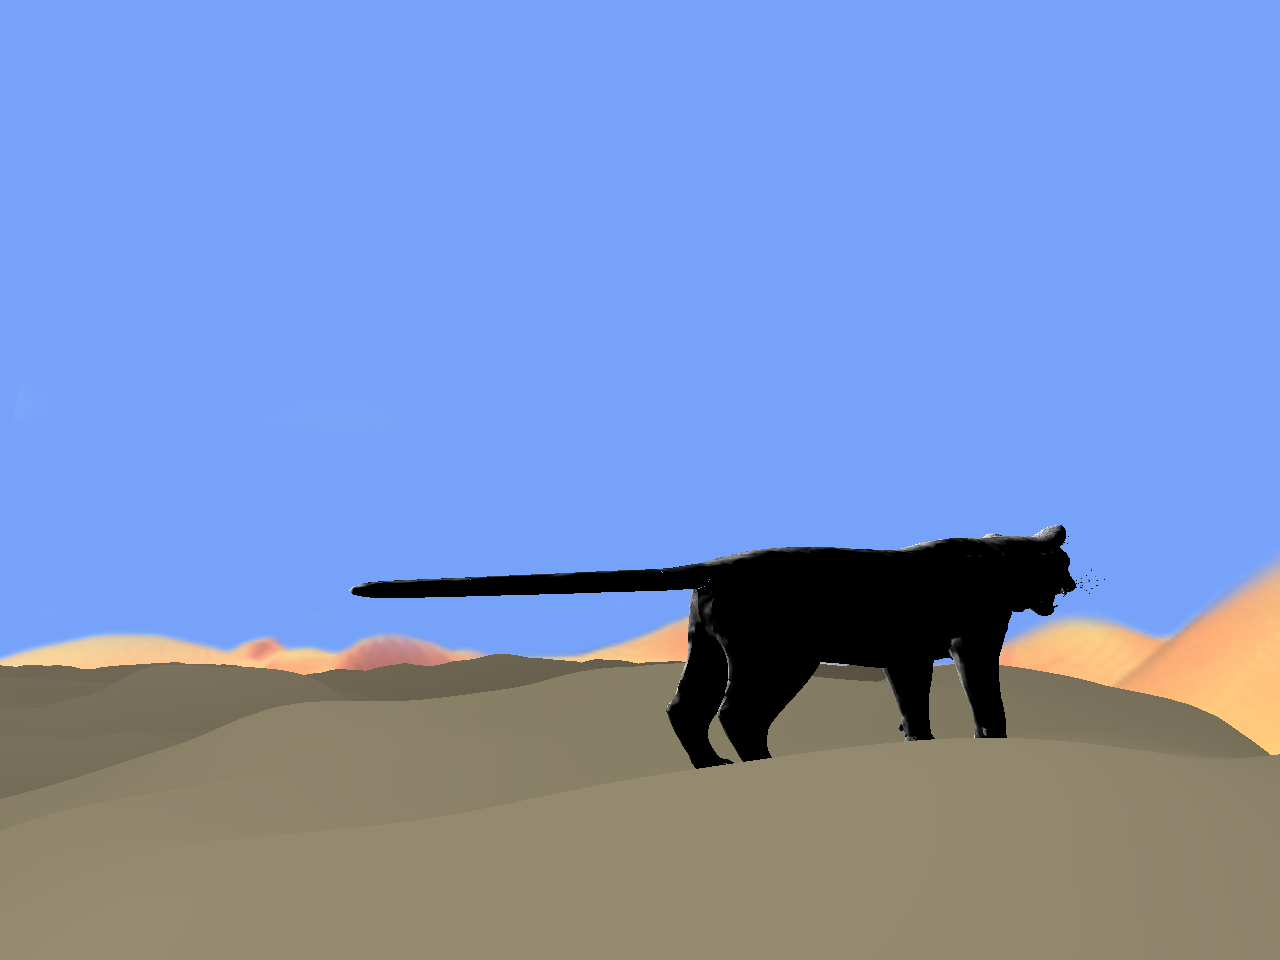
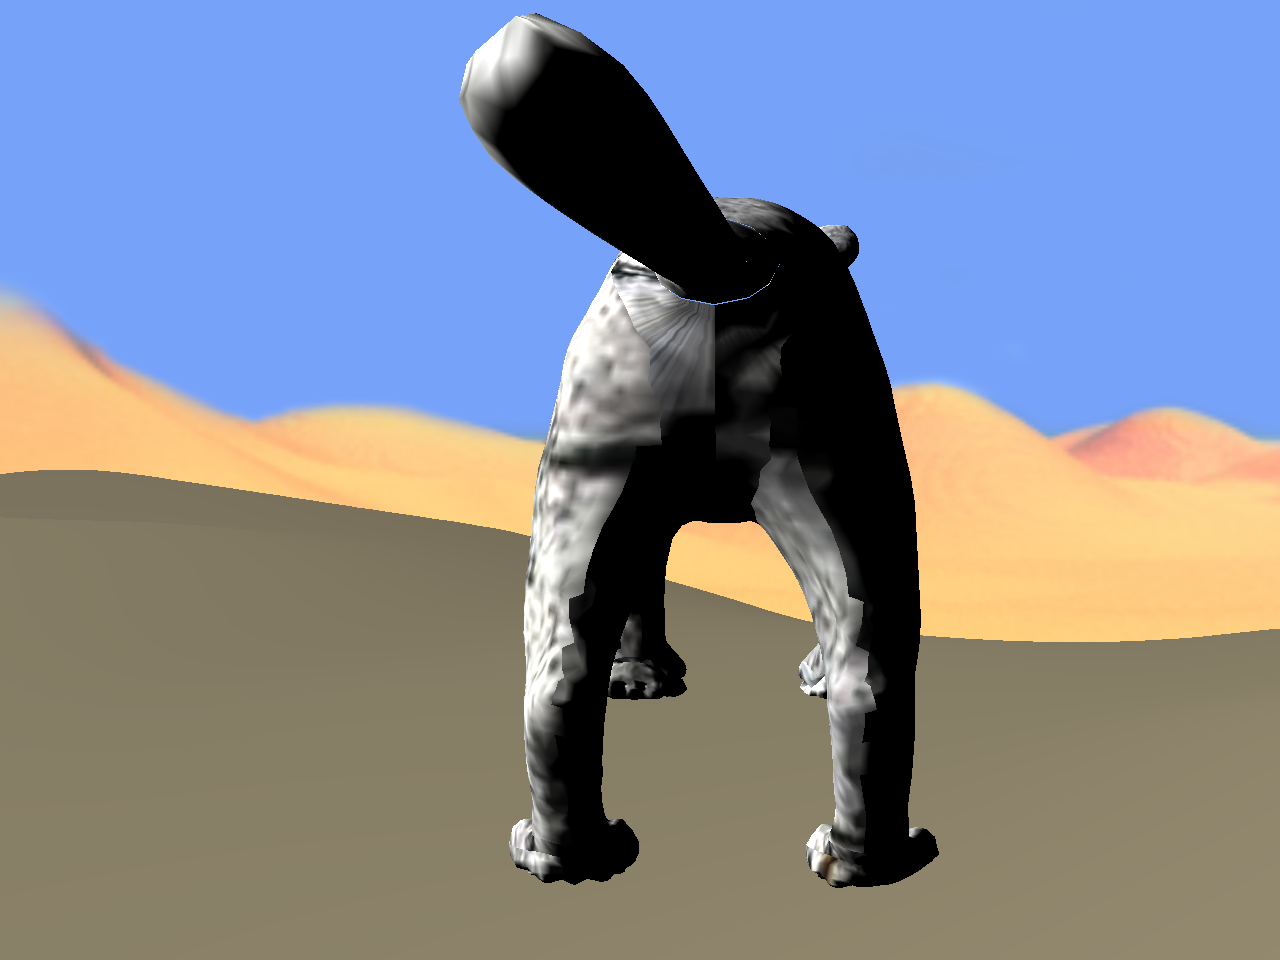
Added function to move camera in required direction

diff --git a/Main.C b/Main.C
@@ -73,6 +73,7 @@ void drawScene()
 void writeToCubeMapBuffer()
 {
 	screenShot->bind();
+	FOVY = 90.0f;
 	
 	glClear(GL_COLOR_BUFFER_BIT | GL_DEPTH_BUFFER_BIT);
 	
@@ -81,6 +82,8 @@ void writeToCubeMapBuffer()
 	drawScene();
 
 	screenShot->unbind();
+	
+	FOVY = 45.0f;
 	
 	updateView();
 }
@@ -95,7 +98,7 @@ void keyboardUp(unsigned char key, int x, int y)
 void keyboard(unsigned char key, int x, int y)
 {
 	//int size;
-	
+	vec3 yAxis (0, 1, 0);
 	active_keys[key] = true;
 	
     switch (key)
@@ -253,6 +256,72 @@ void keyboard(unsigned char key, int x, int y)
 		}
 		
 	break;
+		
+	case '1':
+		//POSITIVE Y
+		cameraAt.x = 10000.0f;
+		//cameraAt.y = 0.0f;
+		cameraAt.y = cameraEye.y;
+		//cameraAt.z = 0.0f;
+		cameraAt.z = cameraEye.z;
+	
+		lookDirection(0.0f,89.5f);
+	break;
+	
+	case '2':
+		//NEGATIVE Y
+		cameraAt.x = 10000.0f;
+		//cameraAt.y = 0.0f;
+		cameraAt.y = cameraEye.y;
+		//cameraAt.z = 0.0f;
+		cameraAt.z = cameraEye.z;
+	
+		lookDirection(0.0f,-89.50f);
+	break;
+	
+	case '3':
+		//POSITIVE X
+		cameraAt.x = 10000.0f;
+		//cameraAt.y = 0.0f;
+		cameraAt.y = cameraEye.y;
+		//cameraAt.z = 0.0f;
+		cameraAt.z = cameraEye.z;
+	
+		lookDirection(0.0f,0.0f);
+	break;
+	
+	case '4':
+		//NEGATIVE X
+		cameraAt.x = -10000.0f;
+		//cameraAt.y = 0.0f;
+		cameraAt.y = cameraEye.y;
+		//cameraAt.z = 0.0f;
+		cameraAt.z = cameraEye.z;
+	
+		lookDirection(0.0f,0.0f);
+	break;
+	
+	case '5':
+		//POSITIVE Z
+		cameraAt.x = 10000.0f;
+		//cameraAt.y = 0.0f;
+		cameraAt.y = cameraEye.y;
+		//cameraAt.z = 0.0f;
+		cameraAt.z = cameraEye.z;
+	
+		lookDirection(-90.0f,0.0f);
+	break;
+	
+	case '6':
+		//NEGATIVE Z
+		cameraAt.x = 10000.0f;
+		//cameraAt.y = 0.0f;
+		cameraAt.y = cameraEye.y;
+		//cameraAt.z = 0.0f;
+		cameraAt.z = cameraEye.z;
+	
+		lookDirection(90.0f,0.0f);
+	break;
 	       
 	case 'c':
 		xScale = yScale = zScale = 1.0f;
@@ -346,6 +415,22 @@ void mouse(int button, int state, int x, int y)
 	cout << "at [" << x << ", " << y << "] " << endl;
 }
 
+void lookDirection(GLfloat hRotation, GLfloat vRotation)
+{
+	vec3 direction = (cameraAt - cameraEye);
+	vec3 right = glm::cross(direction, cameraUp);
+	
+	mat4 rotation; //create empty 4x4 rotation matrix
+	rotation = glm::rotate (rotation, hRotation, cameraUp);
+	rotation = glm::rotate (rotation, vRotation, right);
+	
+	glm::vec4 d (direction.x, direction.y, direction.z, 0.0f);//create a vec4 direction vector so that we can rotate it
+	
+	d = rotation * d;
+	
+	cameraAt = cameraEye + vec3(d.x, d.y, d.z);
+}
+
 void mouseLook (int x, int y)
 {
 	int horizontal_centre = WINDOW_WIDTH / 2;
@@ -415,6 +500,15 @@ void reshape(int newWidth, int newHeight)
 void updateView()
 {
 	mat4 worldView = lookAt(cameraEye, cameraAt, cameraUp);
+	
+	vec3 xAxis(1,0,0);
+	worldView = rotate(worldView, xRot,xAxis);
+	
+	vec3 yAxis(0,1,0);
+	worldView = rotate(worldView, yRot, yAxis);
+	
+	vec3 zAxis(0,0,1);
+	worldView = rotate(worldView, zRot, zAxis);
 	
 	terrainShader->updateViewMatrix(worldView);
 	skyboxShader->updateViewMatrix(worldView);

diff --git a/Main.h b/Main.h
@@ -163,7 +163,7 @@ GLfloat zMove = 0.0f;
  /* 
   * Vertical field-of-view. 
   */
-GLfloat FOVY = 60.0f;
+GLfloat FOVY = 45.0f;
 
 /* 
  * Near clipping plane. 
@@ -279,6 +279,8 @@ void keyboard(unsigned char, int, int);
  * GLUT mouse callback function.
  */
 void mouse(int, int, int, int);
+
+void lookDirection(GLfloat, GLfloat);
 
 void mouseLook (int x, int y);
 
